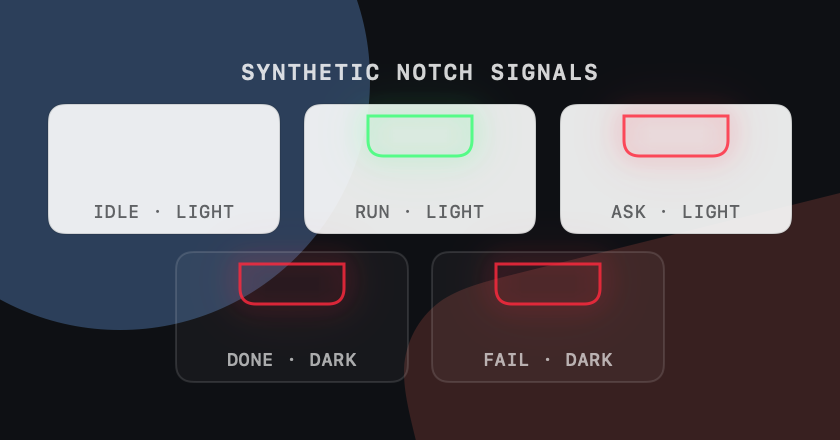
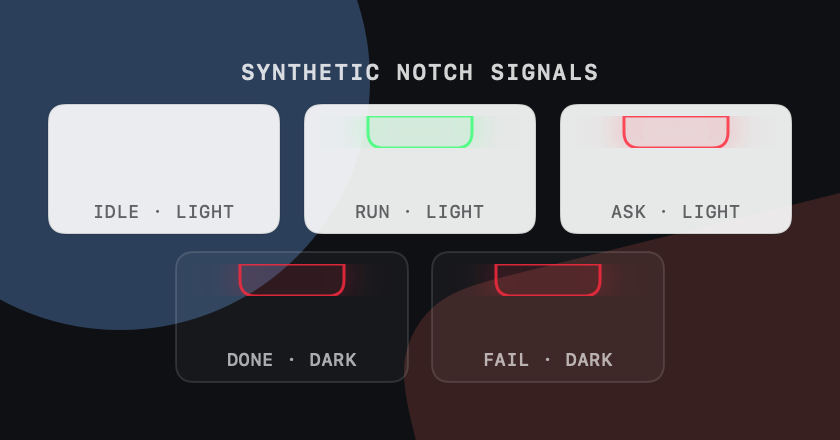
fix: keep collapsed notch glow within menu bar height
The earlier contour fix retained vertical padding and unbounded shadow paint. Remove that padding and clip the composited shell to the measured notch height while keeping horizontal glow and expanded effects.

Add native 1x/2x pixel regressions that fail for both the old geometry and a geometry-only fix; retain expanded edge coverage. Refs #138.

diff --git a/internal/app/macos/tests/NotchGlowBoundsTests.swift b/internal/app/macos/tests/NotchGlowBoundsTests.swift
@@ -1,0 +1,162 @@
+import AppKit
+import SwiftUI
+
+extension MewsAppModelTests {
+    static func testNotchGlowBounds() throws {
+        for height: CGFloat in [24, 32, 37.5, 44] {
+            for visibility in [NotchVisibility.closed, .peek] {
+                let snapshot = boundedGlowSnapshot(height: height, visibility: visibility)
+                let layout = NotchShellLayout.resolved(snapshot: snapshot)
+                guard layout.height == height, layout.contentHeight == 0 else {
+                    throw GlowBoundsFailure("collapsed height \(layout.height) exceeds anchor \(height)")
+                }
+            }
+        }
+        for scale: CGFloat in [1, 2] {
+            for height: CGFloat in [24, 32, 44] {
+                for status in [SessionStatus.running, .needsInput, .done] {
+                    try assertGlowPixels(
+                        snapshot: boundedGlowSnapshot(height: height, status: status),
+                        scale: scale
+                    )
+                }
+                try assertGlowPixels(
+                    snapshot: boundedGlowSnapshot(height: height, visibility: .peek),
+                    scale: scale
+                )
+            }
+            for mode in [OverlayPlacementMode.notch, .topCenter] {
+                try assertGlowPixels(
+                    snapshot: boundedGlowSnapshot(visibility: .expanded, mode: mode),
+                    scale: scale
+                )
+            }
+        }
+        print("Notch glow bounds: 24 collapsed and 4 expanded native renders passed at 1x/2x")
+    }
+
+    private static func boundedGlowSnapshot(
+        height: CGFloat = 32,
+        visibility: NotchVisibility = .closed,
+        mode: OverlayPlacementMode = .notch,
+        status: SessionStatus = .running
+    ) -> NotchShellSnapshot {
+        return NotchShellSnapshot(
+            visibility: visibility,
+            placementMode: mode,
+            panelSize: CGSize(width: 420, height: 220),
+            anchorSize: CGSize(width: 180, height: height),
+            presentationState: MewsPresentationState(event: nil),
+            content: NotchPanelContent(
+                presentation: SessionPresentation(rows: [], aggregateStatuses: [status], health: nil),
+                events: [],
+                currentEvent: nil
+            ),
+            transitionStyle: .opacityOnly,
+            reduceTransparency: false,
+            increaseContrast: status == .needsInput
+        )
+    }
+
+    private static func assertGlowPixels(
+        snapshot: NotchShellSnapshot,
+        scale: CGFloat
+    ) throws {
+        let bitmap = try renderGlow(snapshot: snapshot, scale: scale)
+        let bounds = try coloredPixelBounds(bitmap)
+        let top = 40 * scale
+        let bottom = (40 + snapshot.anchorSize.height) * scale
+        if snapshot.visibility == .expanded {
+            guard bounds.maxY > bottom + 100 * scale else {
+                throw GlowBoundsFailure("expanded glow must retain its full-height edge")
+            }
+        } else {
+            guard bounds.minY >= top, bounds.maxY <= bottom else {
+                throw GlowBoundsFailure(
+                    "\(snapshot.visibility) glow pixels \(bounds.minY)..<\(bounds.maxY) " +
+                    "escape menu band \(top)..<\(bottom) at \(scale)x"
+                )
+            }
+            let notchLeft = (40 + (snapshot.panelSize.width - snapshot.anchorSize.width) / 2) * scale
+            let notchRight = notchLeft + snapshot.anchorSize.width * scale
+            guard bounds.minX < notchLeft, bounds.maxX > notchRight else {
+                throw GlowBoundsFailure("horizontal glow must remain visible beside the hardware")
+            }
+        }
+    }
+
+    private static func renderGlow(
+        snapshot: NotchShellSnapshot,
+        scale: CGFloat
+    ) throws -> NSBitmapImageRep {
+        _ = NSApplication.shared
+        let model = NotchShellViewModel(snapshot: snapshot)
+        let sessions = SessionListPresentationModel { _, _ in }
+        let host = NSHostingView(rootView:
+            NotchShellView(model: model, sessionListModel: sessions)
+                .padding(40)
+                .background(Color.black)
+                .environment(\.colorScheme, .dark)
+        )
+        let size = CGSize(width: snapshot.panelSize.width + 80, height: snapshot.panelSize.height + 80)
+        host.frame = CGRect(origin: .zero, size: size)
+        let window = NSWindow(
+            contentRect: host.frame, styleMask: .borderless, backing: .buffered, defer: false
+        )
+        window.isReleasedWhenClosed = false
+        window.contentView = host
+        defer {
+            window.contentView = nil
+            window.close()
+        }
+        host.layoutSubtreeIfNeeded()
+        host.displayIfNeeded()
+        guard let bitmap = NSBitmapImageRep(
+            bitmapDataPlanes: nil,
+            pixelsWide: Int(size.width * scale), pixelsHigh: Int(size.height * scale),
+            bitsPerSample: 8, samplesPerPixel: 4, hasAlpha: true, isPlanar: false,
+            colorSpaceName: .deviceRGB, bytesPerRow: 0, bitsPerPixel: 0
+        ) else {
+            throw GlowBoundsFailure("could not allocate native glow capture")
+        }
+        bitmap.size = size
+        host.cacheDisplay(in: host.bounds, to: bitmap)
+        return bitmap
+    }
+
+    private static func coloredPixelBounds(_ bitmap: NSBitmapImageRep) throws -> CGRect {
+        guard let pixels = bitmap.bitmapData else {
+            throw GlowBoundsFailure("native glow capture has no pixels")
+        }
+        var minX = bitmap.pixelsWide
+        var minY = bitmap.pixelsHigh
+        var maxX = -1
+        var maxY = -1
+        for row in 0..<bitmap.pixelsHigh {
+            for column in 0..<bitmap.pixelsWide {
+                let pixel = pixels + row * bitmap.bytesPerRow + column * 4
+                let red = Int(pixel[0])
+                let green = Int(pixel[1])
+                let blue = Int(pixel[2])
+                if max(red, green) > blue + 2, abs(red - green) > 2 {
+                    minX = min(minX, column)
+                    minY = min(minY, row)
+                    maxX = max(maxX, column)
+                    maxY = max(maxY, row)
+                }
+            }
+        }
+        guard maxX >= minX, maxY >= minY else {
+            throw GlowBoundsFailure("native glow capture must contain colored pixels")
+        }
+        return CGRect(x: minX, y: minY, width: maxX - minX + 1, height: maxY - minY + 1)
+    }
+}
+
+private struct GlowBoundsFailure: Error {
+    let message: String
+
+    init(_ message: String) {
+        self.message = message
+    }
+}

diff --git a/internal/app/macos/tests/NotchShellViewTests.swift b/internal/app/macos/tests/NotchShellViewTests.swift
@@ -72,13 +72,13 @@ extension MewsAppModelTests {
 
         try shellExpect(
             compact.contentTopInset == anchorSize.height &&
-                compact.contentHeight == 4,
-            "the collapsed glow should hug the physical notch"
+                compact.contentHeight == 0,
+            "the collapsed glow must not add any height below the physical notch"
         )
         try shellExpect(
             preview == compact &&
                 compact.width == anchorSize.width + 8 &&
-                compact.contentHeight == 4,
+                compact.height == anchorSize.height,
             "collapsed glow states should stay tight to the physical notch"
         )
         try shellExpect(
@@ -97,8 +97,15 @@ extension MewsAppModelTests {
         let compactFrame = compactGeometry.screenFrame(in: panelFrame)
         try shellExpect(
             compactFrame.maxY == panelFrame.maxY &&
-                compactFrame.minY < panelFrame.maxY - anchorSize.height,
-            "the compact hit region should include the visible notch edge"
+                compactFrame.minY == panelFrame.maxY - anchorSize.height,
+            "the compact hit region must stay within the measured menu bar height"
+        )
+        try shellExpect(
+            !compactGeometry.contains(
+                CGPoint(x: panelFrame.midX, y: compactFrame.minY - 1),
+                in: panelFrame
+            ),
+            "the space below the menu bar must not become a compact hit target"
         )
         try shellExpect(
             !compactFrame.contains(CGPoint(x: panelFrame.midX, y: panelFrame.minY + 20)),

diff --git a/internal/app/macos/NotchShellGeometry.swift b/internal/app/macos/NotchShellGeometry.swift
@@ -1,7 +1,7 @@
 import SwiftUI
 
 struct NotchShellLayout: Equatable {
-    private static let collapsedEdgeInset: CGFloat = 4
+    private static let collapsedHorizontalInset: CGFloat = 4
 
     let width: CGFloat
     let height: CGFloat
@@ -29,28 +29,15 @@ struct NotchShellLayout: Equatable {
                 cornerRadius: usesTopCenter ? 16 : 20,
                 contentTopInset: 0
             )
-        case .peek:
+        case .peek, .closed:
             return NotchShellLayout(
                 width: min(
                     snapshot.panelSize.width,
-                    max(8, anchorWidth + (collapsedEdgeInset * 2))
+                    max(8, anchorWidth + (collapsedHorizontalInset * 2))
                 ),
                 height: min(
                     snapshot.panelSize.height,
-                    max(8, anchorHeight + collapsedEdgeInset)
-                ),
-                cornerRadius: 8,
-                contentTopInset: anchorHeight
-            )
-        case .closed:
-            return NotchShellLayout(
-                width: min(
-                    snapshot.panelSize.width,
-                    max(8, anchorWidth + (collapsedEdgeInset * 2))
-                ),
-                height: min(
-                    snapshot.panelSize.height,
-                    max(8, anchorHeight + collapsedEdgeInset)
+                    usesTopCenter ? 8 : anchorHeight
                 ),
                 cornerRadius: 8,
                 contentTopInset: anchorHeight

diff --git a/internal/app/macos/NotchShellView.swift b/internal/app/macos/NotchShellView.swift
@@ -97,6 +97,15 @@ struct NotchShellView: View {
             height: snapshot.panelSize.height,
             alignment: .top
         )
+        // Bound the composited shadows outside the animated shell's layout.
+        .mask(alignment: .top) {
+            Rectangle()
+                .frame(height:
+                    snapshot.placementMode == .notch && snapshot.visibility != .expanded
+                        ? snapshot.anchorSize.height
+                        : snapshot.panelSize.height
+                )
+        }
         .allowsHitTesting(snapshot.visibility == .expanded)
         .accessibilityElement(
             children: snapshot.visibility == .expanded ? .contain : .ignore

diff --git a/internal/app/macos/tests/NotchGlowViewTests.swift b/internal/app/macos/tests/NotchGlowViewTests.swift
@@ -8,6 +8,7 @@ extension MewsAppModelTests {
         try testAttentionGlow()
         try testTransientStopGlow()
         try testExpandedGlowInheritance()
+        try testNotchGlowBounds()
     }
 
     private static func testEmptySessionPresentationGlow() throws {

diff --git a/docs/architecture.md b/docs/architecture.md
@@ -110,7 +110,7 @@ Responsibilities:
 
 The agent is packaged as a small app bundle so macOS menu bar identity, notification permission, and local visibility are reliable. It starts the bundled `mw agent` helper, renders a state-responsive template pixel logo, reads local session and event state for the context menu, renders a collapsed physical-notch glow, opens the notch/top-center shell on demand, and routes attention events through either the physical-notch signal or native notifications. Before launching a child and after a child exits, the app asynchronously pings the same Unix socket path used by the Go store resolver, including the private short-path and namespace fallback. In-flight probes are deduplicated so the main actor never waits on IPC. A responsive external agent is treated as healthy, is never duplicated, and is not terminated when the app exits. While externally owned, liveness is checked by the existing two-second refresh. A missing helper, launch failure, or short-lived child uses monotonic exponential restart delays from 10 seconds to a five-minute cap. One minute of healthy child runtime resets the delay, which avoids a persistent process-launch loop while retaining automatic recovery.
 
-The shell keeps a pure `closed` / `peek` / `expanded` interaction policy separate from AppKit timers and event monitors. On a physical notch, `closed` renders no surface while idle, a steady green edge glow while any session runs, a breathing red glow while input is needed, or a steady red glow when every displayable session has stopped. The collapsed shape follows a four-point contour outside the hardware edge instead of extending into a lower capsule. `peek` uses that same geometry with a two-second red breathing pulse for a newly stopped session. `expanded` keeps the existing full black panel and inherits the current glow around its outer shell, including an active pulse without restarting its timer. The top-center fallback still renders only `expanded`. AppKit owns the fixed 420×220 nonactivating panel, display placement, passive local/global mouse observation, and teardown. The physical notch remains an interaction trigger even when the idle overlay is ordered out. Hit testing derives from the rendered glow or expanded shell rather than the transparent maximum panel. Outside clicks close an expanded panel without consuming or synthesizing the target event. The fallback uses rounded adaptive material with a native window shadow and sits six points below the visible menu-bar edge. Left-clicking the status item toggles the shell, while right-click and Control-click preserve the existing event, Refresh, and Quit menu. Physical-notch hover is optional: if global hover monitoring is unavailable, the app logs the degradation and keeps the status-item click and top-center fallback paths.
+The shell keeps a pure `closed` / `peek` / `expanded` interaction policy separate from AppKit timers and event monitors. On a physical notch, `closed` renders no surface while idle, a steady green edge glow while any session runs, a breathing red glow while input is needed, or a steady red glow when every displayable session has stopped. The collapsed shape adds four points on each horizontal side but no vertical padding: its height equals the measured notch safe-area height. A top-aligned mask clips the composited stroke and shadows to that height, outside the animated shell layout, so the glow cannot spill above or below the menu-bar band. `peek` uses that same geometry with a two-second red breathing pulse for a newly stopped session. `expanded` keeps the existing full black panel and inherits the current glow around its outer shell, including an active pulse without restarting its timer. The top-center fallback still renders only `expanded`. AppKit owns the fixed 420×220 nonactivating panel, display placement, passive local/global mouse observation, and teardown. The physical notch remains an interaction trigger even when the idle overlay is ordered out. Hit testing derives from the rendered glow or expanded shell rather than the transparent maximum panel. Outside clicks close an expanded panel without consuming or synthesizing the target event. The fallback uses rounded adaptive material with a native window shadow and sits six points below the visible menu-bar edge. Left-clicking the status item toggles the shell, while right-click and Control-click preserve the existing event, Refresh, and Quit menu. Physical-notch hover is optional: if global hover monitoring is unavailable, the app logs the degradation and keeps the status-item click and top-center fallback paths.
 
 Display placement is recalculated on `NSApplication.didChangeScreenParametersNotification`. The resolver prefers any available physical notch, otherwise uses the main display's `visibleFrame` top center so the shell stays below the menu bar. This covers external-display, clamshell, resolution, coordinate, and main-screen changes. A transient empty screen list clears placement, closes the interaction state, and orders the panel out; the next display notification restores the collapsed state without reopening the expanded panel. The panel remains stationary, joins all Spaces, and participates as a full-screen auxiliary window.
 

diff --git a/docs/product-design.md b/docs/product-design.md
@@ -139,7 +139,7 @@ Events stay deliberately small:
 
 - Prefer a physical notch when one is available. In clamshell or external-display layouts, use the main display's top center below its menu bar.
 - Use live display topology for alert routing. A physical-notch alert suppresses the matching system notification; fallback layouts notify without auto-opening the top-center panel.
-- Keep collapsed status inside a four-point contour around the visible left, right, and bottom notch edges. Do not add a persistent strip below the hardware.
+- Keep collapsed status at the measured notch safe-area height, with four points of contour padding on each horizontal side only. Clip the stroke and glow vertically to the menu-bar band; no collapsed pixels may extend above or below it.
 - Carry the active glow color and breathing or stop-pulse timing onto the expanded shell edge without restarting the effect.
 - Recalculate placement after display hot-plug, resolution, coordinate, or main-screen changes. Hide cleanly if macOS temporarily reports no screens.
 - Keep the panel available across Spaces and full-screen windows without activating the app.

diff --git a/changelog.d/138.fixed.md b/changelog.d/138.fixed.md
@@ -1,0 +1,1 @@
+Keep the collapsed notch glow within the measured menu-bar height, including its stroke and shadows, while preserving horizontal glow and expanded-panel effects.
